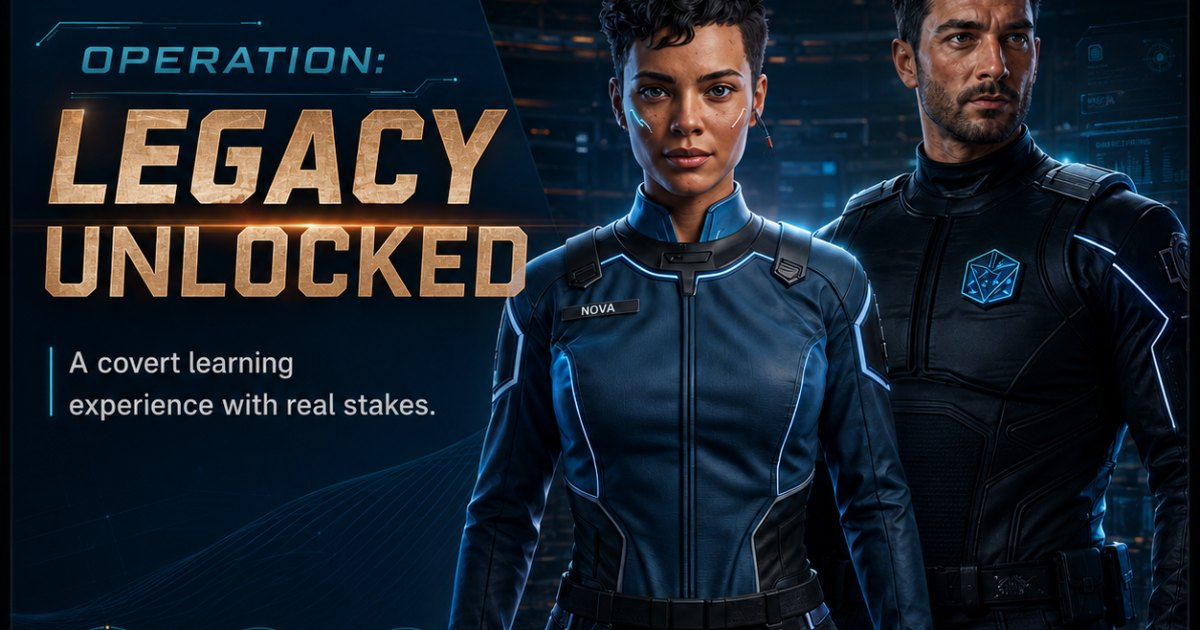
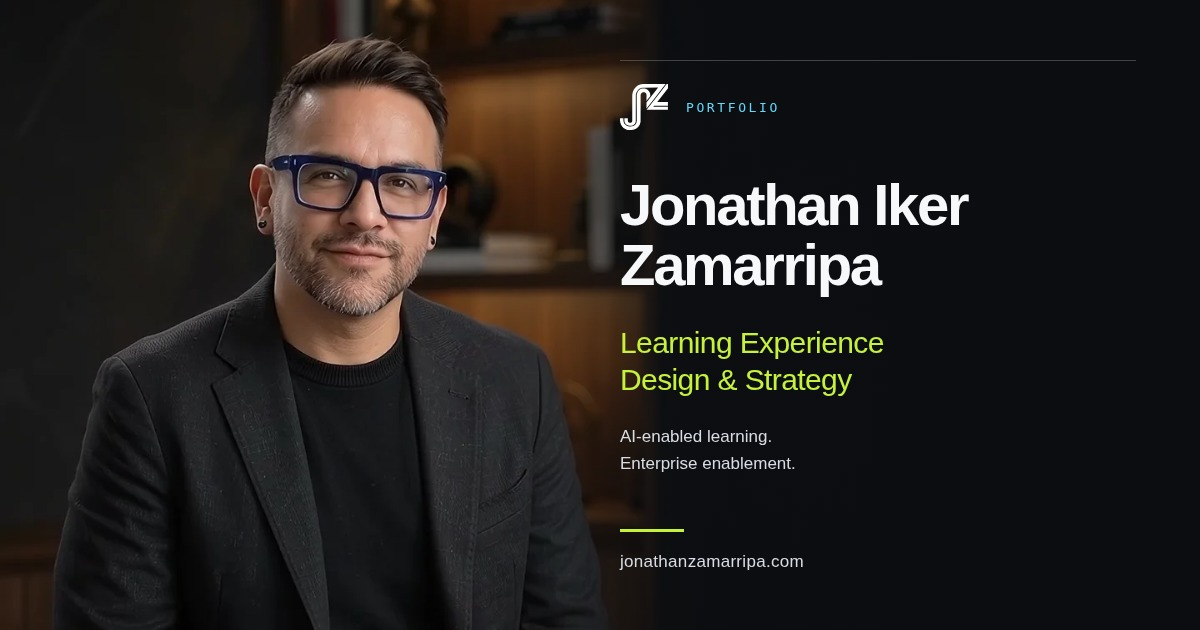
Replace portfolio social preview with branded personal portrait

diff --git a/index.html b/index.html
@@ -7,16 +7,21 @@
 <title>Jonathan Zamarripa — Learning Experience Designer</title>
 <meta name="description" content="Jonathan Zamarripa designs learning experiences, digital products, and enterprise enablement systems. Portfolio and case studies in AI-enabled learning strategy and creative production.">
 <link rel="canonical" href="https://www.jonathanzamarripa.com/">
-<meta property="og:title" content="Jonathan Zamarripa — Learning Experience Designer">
-<meta property="og:description" content="Portfolio and case studies: enterprise learning, AI-enabled production, digital transformation.">
+<meta property="og:title" content="Jonathan Zamarripa — Learning Experience Design &amp; Strategy">
+<meta property="og:description" content="Learning strategy, AI-enabled learning, and enterprise enablement. Explore selected case studies and independent learning experiences by Jonathan Zamarripa.">
 <meta property="og:type" content="website">
 <meta property="og:url" content="https://www.jonathanzamarripa.com/">
-<meta property="og:image" content="https://www.jonathanzamarripa.com/assets/og-image.jpg">
+<meta property="og:image" content="https://www.jonathanzamarripa.com/assets/og/jonathan-zamarripa-portfolio-v1.jpg">
+<meta property="og:image:type" content="image/jpeg">
+<meta property="og:site_name" content="Jonathan Iker Zamarripa">
 <meta property="og:image:width" content="1200">
 <meta property="og:image:height" content="630">
-<meta property="og:image:alt" content="Jonathan Iker Zamarripa — portfolio">
+<meta property="og:image:alt" content="Jonathan Iker Zamarripa in his studio, with his name and Learning Experience Design and Strategy portfolio branding">
+<meta name="twitter:title" content="Jonathan Zamarripa — Learning Experience Design &amp; Strategy">
+<meta name="twitter:description" content="Learning strategy, AI-enabled learning, and enterprise enablement. Explore selected case studies and independent learning experiences by Jonathan Zamarripa.">
+<meta name="twitter:image:alt" content="Jonathan Iker Zamarripa in his studio, with his name and Learning Experience Design and Strategy portfolio branding">
 <meta name="twitter:card" content="summary_large_image">
-<meta name="twitter:image" content="https://www.jonathanzamarripa.com/assets/og-image.jpg">
+<meta name="twitter:image" content="https://www.jonathanzamarripa.com/assets/og/jonathan-zamarripa-portfolio-v1.jpg">
 <meta name="theme-color" content="#0b0d10">
 <link rel="icon" href="./assets/favicon.svg" type="image/svg+xml">
 <link rel="icon" href="./assets/favicon-32x32.png" sizes="32x32" type="image/png">
@@ -37,7 +42,7 @@
 <script src="./site-config.js" defer></script>
 <script src="./content/journal.js" defer></script>
 <script src="./dist/site.js" defer></script>
-<script type="application/ld+json">{"@context":"https://schema.org","@graph":[{"@type":"WebSite","@id":"https://www.jonathanzamarripa.com/#website","url":"https://www.jonathanzamarripa.com/","name":"Jonathan Iker Zamarripa","inLanguage":"en"},{"@type":"ProfilePage","@id":"https://www.jonathanzamarripa.com/#profile","url":"https://www.jonathanzamarripa.com/","name":"Jonathan Iker Zamarripa — Portfolio","isPartOf":{"@id":"https://www.jonathanzamarripa.com/#website"},"mainEntity":{"@id":"https://www.jonathanzamarripa.com/#person"},"inLanguage":"en"},{"@type":"Person","@id":"https://www.jonathanzamarripa.com/#person","name":"Jonathan Iker Zamarripa","alternateName":"Jonathan Zamarripa","url":"https://www.jonathanzamarripa.com/","jobTitle":"Senior Learning Experience Designer & Learning Strategist","sameAs":["https://www.linkedin.com/in/jonathanzamarripa/"],"alumniOf":{"@type":"CollegeOrUniversity","name":"Arizona State University"},"hasCredential":{"@type":"EducationalOccupationalCredential","credentialCategory":"degree","name":"M.Ed., Learning Design and Technology","recognizedBy":{"@type":"CollegeOrUniversity","name":"Arizona State University"}},"knowsAbout":["Learning strategy","Performance consulting","Leadership development","Product and technology enablement","AI-enabled learning","Creative technology and multimedia production","Accessibility and inclusive design"]}]}</script>
+<script type="application/ld+json">{"@context":"https://schema.org","@graph":[{"@type":"WebSite","@id":"https://www.jonathanzamarripa.com/#website","url":"https://www.jonathanzamarripa.com/","name":"Jonathan Iker Zamarripa","inLanguage":"en"},{"@type":"ProfilePage","@id":"https://www.jonathanzamarripa.com/#profile","url":"https://www.jonathanzamarripa.com/","name":"Jonathan Iker Zamarripa — Portfolio","isPartOf":{"@id":"https://www.jonathanzamarripa.com/#website"},"mainEntity":{"@id":"https://www.jonathanzamarripa.com/#person"},"inLanguage":"en"},{"@type":"Person","@id":"https://www.jonathanzamarripa.com/#person","name":"Jonathan Iker Zamarripa","alternateName":"Jonathan Zamarripa","url":"https://www.jonathanzamarripa.com/","jobTitle":"Senior Learning Experience Designer & Learning Strategist","sameAs":["https://www.linkedin.com/in/jonathanzamarripa/"],"alumniOf":{"@type":"CollegeOrUniversity","name":"Arizona State University"},"hasCredential":{"@type":"EducationalOccupationalCredential","credentialCategory":"degree","name":"M.Ed., Learning Design and Technology","recognizedBy":{"@type":"CollegeOrUniversity","name":"Arizona State University"}},"knowsAbout":["Learning strategy","Performance consulting","Leadership development","Product and technology enablement","AI-enabled learning","Creative technology and multimedia production","Accessibility and inclusive design"],"image":"https://www.jonathanzamarripa.com/assets/og/jonathan-zamarripa-portfolio-v1.jpg"}]}</script>
 </head>
 <body>
 <a class="skip-link" href="#main-content" onclick="var m=document.getElementById('main-content');if(m){event.preventDefault();m.focus();m.scrollIntoView();}">Skip to content</a>

diff --git a/work/drafted-by-ai/index.html b/work/drafted-by-ai/index.html
@@ -12,13 +12,16 @@
 <meta property="og:type" content="article">
 <meta property="og:url" content="https://www.jonathanzamarripa.com/work/drafted-by-ai/">
 <meta property="og:image" content="https://www.jonathanzamarripa.com/assets/imagery/drafted-by-ai/cold-open-poster.webp">
-<meta property="og:image:width" content="1200">
-<meta property="og:image:height" content="630">
+<meta property="og:image:type" content="image/webp">
+<meta property="og:site_name" content="Jonathan Iker Zamarripa">
+<meta property="og:image:width" content="1280">
+<meta property="og:image:height" content="720">
 <meta property="og:image:alt" content="Drafted by AI. Sent by You.">
-<meta name="twitter:card" content="summary_large_image">
-<meta name="twitter:image" content="https://www.jonathanzamarripa.com/assets/imagery/drafted-by-ai/cold-open-poster.webp">
 <meta name="twitter:title" content="Drafted by AI. Sent by You. — Case Study">
 <meta name="twitter:description" content="An independent candidate work sample exploring how support Experts can explain AI-assisted invoicing while protecting customer trust. Learning strategy…">
+<meta name="twitter:image:alt" content="Drafted by AI. Sent by You.">
+<meta name="twitter:card" content="summary_large_image">
+<meta name="twitter:image" content="https://www.jonathanzamarripa.com/assets/imagery/drafted-by-ai/cold-open-poster.webp">
 <meta name="theme-color" content="#0b0d10">
 <link rel="icon" href="./assets/favicon.svg" type="image/svg+xml">
 <link rel="icon" href="./assets/favicon-32x32.png" sizes="32x32" type="image/png">

diff --git a/work/marcus-live/index.html b/work/marcus-live/index.html
@@ -12,13 +12,16 @@
 <meta property="og:type" content="article">
 <meta property="og:url" content="https://www.jonathanzamarripa.com/work/marcus-live/">
 <meta property="og:image" content="https://www.jonathanzamarripa.com/assets/og/marcus-live.png">
+<meta property="og:image:type" content="image/png">
+<meta property="og:site_name" content="Jonathan Iker Zamarripa">
 <meta property="og:image:width" content="1200">
 <meta property="og:image:height" content="630">
 <meta property="og:image:alt" content="A warehouse supervisor rehearses a conversation with Marcus on a laptop — AI-generated concept image">
-<meta name="twitter:card" content="summary_large_image">
-<meta name="twitter:image" content="https://www.jonathanzamarripa.com/assets/og/marcus-live.png">
 <meta name="twitter:title" content="Marcus, Live — Case Study">
 <meta name="twitter:description" content="A research-informed conversational AI pilot for rehearsing accountability conversations with Tavus. This independent L&amp;D exploration connects scenario…">
+<meta name="twitter:image:alt" content="A warehouse supervisor rehearses a conversation with Marcus on a laptop — AI-generated concept image">
+<meta name="twitter:card" content="summary_large_image">
+<meta name="twitter:image" content="https://www.jonathanzamarripa.com/assets/og/marcus-live.png">
 <meta name="theme-color" content="#0b0d10">
 <link rel="icon" href="./assets/favicon.svg" type="image/svg+xml">
 <link rel="icon" href="./assets/favicon-32x32.png" sizes="32x32" type="image/png">

diff --git a/work/workday-learn-launch/index.html b/work/workday-learn-launch/index.html
@@ -12,13 +12,16 @@
 <meta property="og:type" content="article">
 <meta property="og:url" content="https://www.jonathanzamarripa.com/work/workday-learn-launch/">
 <meta property="og:image" content="https://www.jonathanzamarripa.com/assets/og/workday-learn-launch.jpg">
+<meta property="og:image:type" content="image/jpeg">
+<meta property="og:site_name" content="Jonathan Iker Zamarripa">
 <meta property="og:image:width" content="1200">
 <meta property="og:image:height" content="630">
 <meta property="og:image:alt" content="Workday Learn: The Growth Launch — Cover Artwork">
-<meta name="twitter:card" content="summary_large_image">
-<meta name="twitter:image" content="https://www.jonathanzamarripa.com/assets/og/workday-learn-launch.jpg">
 <meta name="twitter:title" content="Workday Learn: The Growth Launch — Case Study">
 <meta name="twitter:description" content="An enterprise launch campaign positioning Workday Learn as a professional growth ecosystem. Learning strategy, launch messaging, promotional media, and Rise…">
+<meta name="twitter:image:alt" content="Workday Learn: The Growth Launch — Cover Artwork">
+<meta name="twitter:card" content="summary_large_image">
+<meta name="twitter:image" content="https://www.jonathanzamarripa.com/assets/og/workday-learn-launch.jpg">
 <meta name="theme-color" content="#0b0d10">
 <link rel="icon" href="./assets/favicon.svg" type="image/svg+xml">
 <link rel="icon" href="./assets/favicon-32x32.png" sizes="32x32" type="image/png">

diff --git a/work/the-first-sentence/index.html b/work/the-first-sentence/index.html
@@ -12,13 +12,16 @@
 <meta property="og:type" content="article">
 <meta property="og:url" content="https://www.jonathanzamarripa.com/work/the-first-sentence/">
 <meta property="og:image" content="https://www.jonathanzamarripa.com/assets/og/the-first-sentence.jpg">
+<meta property="og:image:type" content="image/jpeg">
+<meta property="og:site_name" content="Jonathan Iker Zamarripa">
 <meta property="og:image:width" content="1200">
 <meta property="og:image:height" content="630">
 <meta property="og:image:alt" content="The First Sentence — Dana and Marcus on the warehouse floor">
-<meta name="twitter:card" content="summary_large_image">
-<meta name="twitter:image" content="https://www.jonathanzamarripa.com/assets/og/the-first-sentence.jpg">
 <meta name="twitter:title" content="The First Sentence — Case Study">
 <meta name="twitter:description" content="An independent cinematic branching simulation for newly promoted frontline supervisors. Consequential choices, peer coaching, and a transfer exercise help…">
+<meta name="twitter:image:alt" content="The First Sentence — Dana and Marcus on the warehouse floor">
+<meta name="twitter:card" content="summary_large_image">
+<meta name="twitter:image" content="https://www.jonathanzamarripa.com/assets/og/the-first-sentence.jpg">
 <meta name="theme-color" content="#0b0d10">
 <link rel="icon" href="./assets/favicon.svg" type="image/svg+xml">
 <link rel="icon" href="./assets/favicon-32x32.png" sizes="32x32" type="image/png">

diff --git a/work/hotelkey-onboarding/index.html b/work/hotelkey-onboarding/index.html
@@ -12,13 +12,16 @@
 <meta property="og:type" content="article">
 <meta property="og:url" content="https://www.jonathanzamarripa.com/work/hotelkey-onboarding/">
 <meta property="og:image" content="https://www.jonathanzamarripa.com/assets/og/hotelkey-onboarding.jpg">
+<meta property="og:image:type" content="image/jpeg">
+<meta property="og:site_name" content="Jonathan Iker Zamarripa">
 <meta property="og:image:width" content="1200">
 <meta property="og:image:height" content="630">
 <meta property="og:image:alt" content="HotelKey: Ready for Day One — Case Study Hero">
-<meta name="twitter:card" content="summary_large_image">
-<meta name="twitter:image" content="https://www.jonathanzamarripa.com/assets/og/hotelkey-onboarding.jpg">
 <meta name="twitter:title" content="HotelKey: Ready for Day One — Case Study">
 <meta name="twitter:description" content="A structured onboarding experience for new hotel hires that connects HotelKey’s operating logic to the decisions employees make on shift. Workflow…">
+<meta name="twitter:image:alt" content="HotelKey: Ready for Day One — Case Study Hero">
+<meta name="twitter:card" content="summary_large_image">
+<meta name="twitter:image" content="https://www.jonathanzamarripa.com/assets/og/hotelkey-onboarding.jpg">
 <meta name="theme-color" content="#0b0d10">
 <link rel="icon" href="./assets/favicon.svg" type="image/svg+xml">
 <link rel="icon" href="./assets/favicon-32x32.png" sizes="32x32" type="image/png">

diff --git a/work/guest-crm-pilot/index.html b/work/guest-crm-pilot/index.html
@@ -12,13 +12,16 @@
 <meta property="og:type" content="article">
 <meta property="og:url" content="https://www.jonathanzamarripa.com/work/guest-crm-pilot/">
 <meta property="og:image" content="https://www.jonathanzamarripa.com/assets/og/guest-crm-pilot.jpg">
+<meta property="og:image:type" content="image/jpeg">
+<meta property="og:site_name" content="Jonathan Iker Zamarripa">
 <meta property="og:image:width" content="1200">
 <meta property="og:image:height" content="630">
 <meta property="og:image:alt" content="Guest CRM: Beyond the Click — Case Study Cover">
-<meta name="twitter:card" content="summary_large_image">
-<meta name="twitter:image" content="https://www.jonathanzamarripa.com/assets/og/guest-crm-pilot.jpg">
 <meta name="twitter:title" content="Guest CRM: Beyond the Click — Case Study">
 <meta name="twitter:description" content="A modular enablement toolkit supporting hotel teams during a guest CRM pilot. Learning architecture, workflow guidance, job aids, and tutorials connect…">
+<meta name="twitter:image:alt" content="Guest CRM: Beyond the Click — Case Study Cover">
+<meta name="twitter:card" content="summary_large_image">
+<meta name="twitter:image" content="https://www.jonathanzamarripa.com/assets/og/guest-crm-pilot.jpg">
 <meta name="theme-color" content="#0b0d10">
 <link rel="icon" href="./assets/favicon.svg" type="image/svg+xml">
 <link rel="icon" href="./assets/favicon-32x32.png" sizes="32x32" type="image/png">

diff --git a/work/legacy-unlocked/index.html b/work/legacy-unlocked/index.html
@@ -12,13 +12,16 @@
 <meta property="og:type" content="article">
 <meta property="og:url" content="https://www.jonathanzamarripa.com/work/legacy-unlocked/">
 <meta property="og:image" content="https://www.jonathanzamarripa.com/assets/og/legacy-unlocked.jpg">
+<meta property="og:image:type" content="image/jpeg">
+<meta property="og:site_name" content="Jonathan Iker Zamarripa">
 <meta property="og:image:width" content="1200">
 <meta property="og:image:height" content="630">
 <meta property="og:image:alt" content="Operation: Legacy Unlocked — Cover Artwork">
-<meta name="twitter:card" content="summary_large_image">
-<meta name="twitter:image" content="https://www.jonathanzamarripa.com/assets/og/legacy-unlocked.jpg">
 <meta name="twitter:title" content="Operation: Legacy Unlocked — Case Study">
 <meta name="twitter:description" content="A mission-driven leadership learning experience for Cox Enterprises. Employees become Cox Intelligence Agents, exploring organizational history through…">
+<meta name="twitter:image:alt" content="Operation: Legacy Unlocked — Cover Artwork">
+<meta name="twitter:card" content="summary_large_image">
+<meta name="twitter:image" content="https://www.jonathanzamarripa.com/assets/og/legacy-unlocked.jpg">
 <meta name="theme-color" content="#0b0d10">
 <link rel="icon" href="./assets/favicon.svg" type="image/svg+xml">
 <link rel="icon" href="./assets/favicon-32x32.png" sizes="32x32" type="image/png">

diff --git a/site-config.js b/site-config.js
@@ -33,7 +33,7 @@
     { view: 'guest-crm-pilot', featured: true, path: '/work/guest-crm-pilot/', hero: 'assets/imagery/guestcrm-01-cover-1600.webp', og: 'assets/og/guest-crm-pilot.jpg', aliases: ['Guest CRM Pilot'] },
     { view: 'workday-learn', featured: true, path: '/work/workday-learn-launch/', hero: 'assets/imagery/workday-01-cover-1600.webp', og: 'assets/og/workday-learn-launch.jpg', aliases: ['Workday Learn Launch'] },
     { view: 'the-first-sentence', path: '/work/the-first-sentence/', hero: 'assets/imagery/the-first-sentence/first-sentence-hero.webp', og: 'assets/og/the-first-sentence.jpg', aliases: ['The First Sentence'] },
-    { view: 'drafted-by-ai', path: '/work/drafted-by-ai/', hero: 'assets/imagery/drafted-by-ai/customer-tailgate-hero.webp', og: 'assets/imagery/drafted-by-ai/cold-open-poster.webp', aliases: ['Drafted by AI. Sent by You.'] },
+    { view: 'drafted-by-ai', path: '/work/drafted-by-ai/', hero: 'assets/imagery/drafted-by-ai/customer-tailgate-hero.webp', og: 'assets/imagery/drafted-by-ai/cold-open-poster.webp', ogWidth: 1280, ogHeight: 720, aliases: ['Drafted by AI. Sent by You.'] },
     { view: 'marcus-live', path: '/work/marcus-live/', hero: 'assets/imagery/marcus-live/marcus-live-practice.webp', og: 'assets/og/marcus-live.png', aliases: ['Marcus, Live'] },
     { view: 'behind-the-build', aliases: ['Behind the Build'] }
   ];

diff --git a/journal/index.html b/journal/index.html
@@ -10,7 +10,7 @@
 <meta property="og:description" content="An independent journal on the changing conditions of learning, expertise, and experience design. The production conditions of learning have changed. The design epistemology hasn’t caught up yet. That gap is the work.">
 <meta property="og:type" content="website">
 <meta property="og:url" content="https://www.jonathanzamarripa.com/journal/">
-<meta property="og:image" content="https://www.jonathanzamarripa.com/assets/og-image.jpg">
+<meta property="og:image" content="https://www.jonathanzamarripa.com/assets/og/jonathan-zamarripa-portfolio-v1.jpg">
 <meta name="twitter:card" content="summary_large_image">
 <meta name="author" content="Jonathan Iker Zamarripa">
 <meta name="theme-color" content="#0E1114">

diff --git a/HANDOFF.md b/HANDOFF.md
@@ -183,3 +183,11 @@ Approved PR #10 visual-fidelity corrections completed for branch preview. No mer
 - New `assets/documents/jonathan-zamarripa-public-resume.pdf`: fresh 2-page, selectable-text PDF based on the user's supplied Profile (1).pdf. No residence/location field, street address, phone, embedded original pages or private metadata. Professional institution names remain. Includes exact independent consulting (Jul 2024–present), IHG Creative Content Specialist (Sep 2025–Jul 2026), Cox Learning Experience Designer (Feb–Sep 2025), AIS Instructional Designer & EdTech Integration Specialist (Jul 2019–Apr 2024), K–5 Robotics Instructor (Jul 2011–Jul 2019), service, current independent projects, education and credentials. Source profile overrides older role/degree labels.
 - Updated Hero, footer, contact and navigation résumé triggers to the shared local URL. Updated actual career timeline to five stages, its motion count to derive from stage count, degree label/structured data, and enterprise case-study Role fields to verified job titles.
 - Build passed; browser interaction suite passed at 375/768/1440; width/alignment/colored-tag/PDF-control/5-stage-career checks passed at 375/768/1440/1920; all case-study headings and overflow checks passed. PDF: 2 pages, 49,017 bytes, text/bounds/privacy checks pass, 3 valid public contact links. Initial assets gzip -84 bytes, no dependencies. Existing NavBar SSR warning remains; real screen-reader/device checks remain manual. Review files in local work/bounded-review; source uploaded profile and scratch files are untracked and must not be published.
+- Production READY: `dpl_GyZKEyRE5HmJwnH6wUjN1kd1TWww`, source `5352624f140fa25792603d403ddc3801c65fb8c6`, www/apex aliases assigned. Published homepage HTTP 200 confirms bounded dark stage and corrected career titles/current consulting stage. Published resume HTTP 200 application/pdf, 49,017 bytes; published ETag matches the verified local PDF hash. Published site-config points every resume trigger to the new asset. HotelKey/Guest CRM pages return HTTP 200 with verified employment titles. Deployment error-log query returned no records. This is local post-release verification; no further site changes required.
+
+## Personal social-share preview — 2026-11-02
+- User asked how to replace the project's default social attachment with a more elevated preview featuring him. Standing deployment authorization applies; branch `preview/portfolio-social-preview` starts at current production 5352624.
+- New `assets/og/jonathan-zamarripa-portfolio-v1.jpg`: 1200×630 JPEG with the existing studio portrait unchanged, official monogram, name and learning-design/strategy positioning. Layout rendered from HTML/CSS using portfolio colors and font stack. Original portrait asset remains untouched. Legacy `assets/og-image.jpg` is updated with the same card for old metadata consumers.
+- Homepage Open Graph/Twitter image, title, description and alt text updated; new versioned image URL helps image-cache refresh. Person JSON-LD gains the image. Journal fallback uses the same identity while articles retain explicit images. Case-study images remain project-specific; builder now replaces Twitter fields separately (no duplicate homepage metadata), sets correct image types and dimensions, including the existing 1280×720 AI sample.
+- Supported build and metadata checks passed: one of every OG/Twitter field, all seven route-specific previews and correct actual image dimensions; generated page bodies and application JS are byte-identical to current production. Image inspected at full size; source image is unaltered. No new dependencies or initial JavaScript growth. Existing NavBar SSR warning remains.
+- Social platforms cache page and image data independently. User can refresh LinkedIn via https://www.linkedin.com/post-inspector/ and Facebook via https://developers.facebook.com/tools/debug/. Existing shared posts may retain their first preview; deployment alone cannot force every social cache to update. Rendering source is local work/social-preview/card.html; future revisions should use a new image filename and update metadata.
